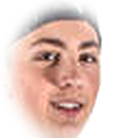
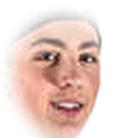
Giacca 3D per il completo, Leonardo Bulgari Jr come nella nuova foto
- Completo (Max Malpensa, Liam Rangoni): giacca vera sopra il corpo, con risvolti in raso nero,
  falde sui fianchi, pantaloni larghi e scarpe nere opache
- Leonardo Bulgari Jr: capelli castani corti, torso nudo, fisico asciutto, fascia nera sul braccio;
  dal volto della vecchia foto si sfuma il bordo del cappellino

Changed region(s): [[0.1562, 0.029, 0.8125, 0.3768]]

diff --git a/src/game/wrestlerModel.js b/src/game/wrestlerModel.js
@@ -249,7 +249,8 @@ const faceGLSL = (cond) => `
     }
   }`;
 
-function gearMaterial(src, models, look) {
+// shell: strato della giacca (completo), una copia del corpo un po' più larga che segue lo stesso scheletro
+function gearMaterial(src, models, look, shell = false) {
   const m = src.clone();
   if (look.lightSkin) m.map = models.lightSkin;
   m.color = new THREE.Color(look.skinTint ?? '#ffffff');
@@ -283,6 +284,8 @@ function gearMaterial(src, models, look) {
     // x: maschera, y: arbitro, z: nastro ai polsi, w: barba (lunghezza 0-1, 0 = niente)
     uFlags: { value: new THREE.Vector4(look.mask ? 1 : 0, look.isRef ? 1 : 0, look.tape ? 1 : 0, look.beard ? (look.beardLen ?? 0.5) + 0.01 : 0) },
     // x: tipo di maglia, y: calzamaglia, z: disegno della calzamaglia, w: lunghezza dei pantaloncini (0 slip, 1 lunghi)
+    uArmband: { value: col(look.armband) },
+    uArmbandOn: { value: look.armband ? 1 : 0 },
     uFlags2: { value: new THREE.Vector4(TOPS[top.kind] ?? 0, look.tights ? 1 : 0, PATTERNS[look.tightsPattern] ?? 0, look.trunksLen ?? 0) },
     uCapOn: { value: look.cap ? 1 : 0 },
     // x: occhiali, y: cravatta a righe
@@ -298,6 +301,7 @@ function gearMaterial(src, models, look) {
     uFace: { value: faceTex },
     uFaceOn: { value: faceTex ? 1 : 0 },
     uFaceScale: { value: face?.scale ?? 1 },
+    uShell: { value: shell ? 1 : 0 },
   };
   m.onBeforeCompile = (sh) => {
     Object.assign(sh.uniforms, u);
@@ -305,7 +309,7 @@ function gearMaterial(src, models, look) {
       .replace('#include <common>', `#include <common>
 varying vec3 vRest; varying vec3 vRestN;
 attribute float aArm;
-uniform mat3 uBasis; uniform vec4 uBuild; uniform vec4 uY; uniform vec4 uY2; uniform float uChest; uniform float uArmX; uniform vec3 uHand;`)
+uniform mat3 uBasis; uniform vec4 uBuild; uniform vec4 uY; uniform vec4 uY2; uniform float uChest; uniform float uArmX; uniform vec3 uHand; uniform float uShell;`)
       .replace('#include <begin_vertex>', `#include <begin_vertex>
 vRest = position;
 vRestN = uBasis * normal;
@@ -323,6 +327,15 @@ vRestN = uBasis * normal;
   float legs = (1.0 - smoothstep(uY2.x - 0.06, uY2.x + 0.04, q.y)) * smoothstep(uY.x + 0.02, uY.x + 0.1, q.y);
   float notArm = 1.0 - smoothstep(0.1, 0.6, aArm);
   transformed += objectNormal * (uBuild.x * body + (uBuild.y * belly + uBuild.z * torso) * notArm + uBuild.w * legs);
+  if (uShell > 0.5) {
+    // giacca: stoffa staccata dal corpo, spalle imbottite, falde che si allargano sui fianchi
+    float shoulder = exp(-pow((q.y - (uY.w - 0.07)) / 0.07, 2.0)) * smoothstep(uArmX * 0.45, uArmX * 0.9, abs(q.x));
+    float flare = (1.0 - smoothstep(uY2.x - 0.12, uY2.x + 0.12, q.y)) * notArm;
+    // pantaloni larghi e dritti: più staccati dalla gamba verso la caviglia
+    float trousers = (1.0 - smoothstep(uY2.x - 0.1, uY2.x - 0.02, q.y)) * (0.016 + 0.018 * (1.0 - smoothstep(uY.x + 0.06, uY.y + 0.1, q.y)));
+    trousers *= smoothstep(uY.x - 0.02, uY.x + 0.04, q.y);
+    transformed += objectNormal * ((0.02 + 0.008 * shoulder + 0.02 * flare) * smoothstep(uY2.x - 0.1, uY2.x - 0.06, q.y) + trousers);
+  }
 }`);
     sh.fragmentShader = sh.fragmentShader
       .replace('#include <common>', `#include <common>
@@ -331,7 +344,8 @@ uniform sampler2D uFace; uniform float uFaceOn; uniform float uFaceScale;
 uniform mat3 uBasis; uniform vec3 uTrunks; uniform vec3 uTrim; uniform vec3 uBoots; uniform vec3 uPads;
 uniform vec3 uTape; uniform vec3 uMask; uniform vec3 uMaskTrim; uniform vec3 uBeard; uniform vec3 uCap;
 uniform vec3 uTop; uniform vec3 uTop2; uniform vec3 uTop3; uniform vec4 uFlags; uniform vec4 uFlags2; uniform float uCapOn; uniform vec4 uExtra;
-uniform float uArmX; uniform float uHeadZ; uniform float uChest;
+uniform float uArmX; uniform float uHeadZ; uniform float uChest; uniform float uShell;
+uniform vec3 uArmband; uniform float uArmbandOn;
 uniform vec4 uY; uniform vec4 uY2; uniform vec3 uHand; uniform vec3 uArmDir;
 float cloth = 0.0;
 float shoe = 0.0;   // scarpe: nere e opache (sotto il faro il nero lucido sembrerebbe pelle)
@@ -393,8 +407,8 @@ vec3 rainbow(float t) {
     bool torso = ax < max(uArmX * 1.05, xThigh + 0.2) && p.y > hem && p.y < yNeck - 0.01 && (ax < uArmX * 1.05 || p.y < yPelvis);
     if (sleeve || torso) {
       col = uTop; cloth = 1.0;
-      float sy = uChest - 0.2;
-      float vee = 0.02 + (p.y - sy) * 0.55;                     // scollo della giacca, ampio
+      float sy = uChest - 0.17;
+      float vee = 0.02 + (p.y - sy) * 0.4;                     // scollo della giacca, ampio
       if (torso && p.z > 0.0 && p.y > sy && ax < vee) {
         col = uTop2;
         if (p.y > yNeck - 0.045 && ax > 0.03) col = mix(uTop2, vec3(0.6), 0.25);   // colletto della camicia
@@ -404,7 +418,7 @@ vec3 rainbow(float t) {
           if (uExtra.y > 0.5 && mod(floor((p.y - p.x) * 60.0), 2.0) < 1.0) col = mix(uTop3, vec3(0.9, 0.85, 0.75), 0.55);
         }
       } else if (torso && p.z > 0.0 && p.y > sy - 0.03 && ax < vee + 0.045) {
-        col = uTop * 0.55;                                       // risvolti più scuri, ben visibili
+        col = uTop * 0.55;                   // risvolti in raso nero, bordino chiaro più scuri, ben visibili
       }
       if (torso && p.z > 0.0 && p.y < sy && ax < 0.004) col = uTop * 0.4;   // chiusura della giacca
       // sotto l'ultimo bottone la giacca si apre: si vedono i pantaloni
@@ -434,6 +448,8 @@ vec3 rainbow(float t) {
       }
     }
   }
+  // fascia nera a metà del braccio sinistro
+  if (uArmbandOn > 0.5 && p.x > 0.0 && along < -(uExtra.z + 0.06) && along > -(uExtra.z + 0.11) && length(hp - uArmDir * along) < 0.09) { col = uArmband; cloth = 1.0; }
   // nastro ai polsi
   if (uFlags.z > 0.5 && along < -0.005 && along > -0.12 && length(hp - uArmDir * along) < 0.075) { col = uTape; cloth = 1.0; }
   // arbitro: camicia a righe verticali con maniche corte e colletto nero, cintura, pantaloni lunghi e scarpe nere
@@ -483,11 +499,36 @@ vec3 rainbow(float t) {
     if (uFaceOn < 0.5 && ax < 0.012 && p.y > eyeY + 0.03) col = uMaskTrim;
   }
   ${faceGLSL('uFlags.x > 0.5')}
+  if (uShell > 0.5) {
+    // strato della giacca: solo tronco e maniche (aperto davanti sulla camicia), sotto i pantaloni larghi
+    float hem = yPelvis - 0.06;
+    bool sleeve = ax > uArmX * 0.75 && along < -0.035 && p.y > yWaist;
+    bool torso = ax < uArmX * 1.05 && p.y > hem && p.y < yNeck - 0.01;
+    if (!(sleeve || torso)) {
+      if (!(leg && p.y > yFoot + 0.01)) discard;
+      col = uTrunks; cloth = 1.0;                                                  // pantaloni
+      if (p.z > 0.0 && abs(abs(p.x) - xThigh) < 0.003 && p.y < hem) col = uTrunks * 0.6;   // piega davanti
+      if (!gl_FrontFacing) col = uTrunks * 0.3;
+      diffuseColor.rgb = col;
+    } else {
+    float sy = uChest - 0.17;
+    float vee = 0.02 + (p.y - sy) * 0.4;
+    if (torso && p.z > 0.0 && p.y > sy && ax < vee) discard;
+    col = uTop; cloth = 1.0;
+    if (torso && p.z > 0.0 && p.y > sy - 0.035 && ax < vee + 0.045) col = p.y > sy + 0.01 && ax > vee + 0.038 ? vec3(0.35) : vec3(0.025);   // risvolti in raso nero, bordino chiaro
+    if (torso && p.z > 0.0 && p.y < sy && p.y > yPelvis && abs(ax - 0.012) < 0.008 && mod(p.y - sy, 0.08) < 0.016) col = vec3(0.03);   // bottoni
+    if (torso && p.z > 0.02 && abs(ax - 0.1) < 0.04 && abs(p.y - (yPelvis + 0.03)) < 0.006) col = uTop * 0.45;   // tasche
+    if (torso && p.x > 0.06 && p.x < 0.11 && p.z > 0.0 && p.y > uChest - 0.015 && p.y < uChest + 0.012) col = uTop2;   // fazzoletto
+    if (torso && p.y < hem + 0.01) col = uTop * 0.5;                                                          // orlo
+    if (!gl_FrontFacing) col = uTop * 0.3;                                                                    // fodera
+    }
+  }
   diffuseColor.rgb = col;
 }`)
       .replace('#include <roughnessmap_fragment>', '#include <roughnessmap_fragment>\nroughnessFactor = mix(mix(roughnessFactor, 0.45, cloth), 1.0, shoe);');
   };
-  m.customProgramCacheKey = () => 'bwt-gear';
+  if (shell) m.side = THREE.DoubleSide;
+  m.customProgramCacheKey = () => (shell ? 'bwt-gear-shell' : 'bwt-gear');
   return m;
 }
 
@@ -518,6 +559,17 @@ export class WrestlerRig {
         o.visible = false;   // occhi del modello: sotto la maschera si vede il disegno della foto
       }
     });
+
+    // completo: giacca vera sopra il corpo (stessa geometria e stesso scheletro, un po' più larga)
+    if (look.top?.kind === 'completo') {
+      let body = null;
+      inst.traverse((o) => { if (o.name === models.body.name) body = o; });
+      const jacket = new THREE.SkinnedMesh(body.geometry, gearMaterial(body.material, models, look, true));
+      jacket.bind(body.skeleton, body.bindMatrix);
+      jacket.castShadow = true;
+      jacket.frustumCulled = false;
+      body.parent.add(jacket);
+    }
 
     this.bulk = look.slim || look.lean ? SLIM_BONES : BULK_BONES;
     this.bones = {};

diff --git a/src/data/roster.js b/src/data/roster.js
@@ -8,7 +8,7 @@
 //   top           { kind: 'canotta' | 'body' | 'completo', color, trim, color3, tieStripes }
 //   boots, pads, tape (nastro/polsini, null = niente), beard + beardLen, cap, glasses, mask
 //   hairStyle     'corti' | 'medi' | 'lunghi' | null (calvo); headband: fascia sulla fronte (colore)
-//   hat           cappello da cowboy (colore)
+//   hat           cappello da cowboy (colore); armband: fascia sul braccio sinistro (colore)
 //   mask          maschera (colore): con face il disegno della maschera viene dalla foto; antennae: antenne (colore)
 //   lean          fisico asciutto e poco muscoloso (altrimenti la corporatura viene dal peso)
 //   face          volto dalla foto in public/foto/ (vedi tools/build-faces.py)
@@ -54,10 +54,9 @@ export const ROSTER = [
     trunks: '#6a1fb0', trim: '#111111', boots: '#111111', pads: '#111111', tape: '#111111',
   },
   {
-    name: 'LEONARDO BULGARI JR', face: 'lello', nickname: 'The coolest kid in town', from: 'Bologna', height: 1.83, kg: 73,
+    name: 'LEONARDO BULGARI JR', face: 'lello', nickname: 'The coolest kid in town', from: 'Bologna', height: 1.83, kg: 73, lean: true,
     lightSkin: true, skinTint: '#ffffff',
-    hairStyle: null, hair: '#2a1a10', cap: '#151515',
-    top: { kind: 'canotta', color: '#f2f2f2', trim: '#3a3a3a' },
+    hairStyle: 'corti', hair: '#3b2416', armband: '#111111',
     tights: true, trunks: '#1f5fd0', trim: '#1f5fd0', boots: '#f2f2f2', pads: '#1f5fd0', tape: null,
   },
   {

diff --git a/tools/build-faces.py b/tools/build-faces.py
@@ -8,7 +8,7 @@ Uso: python3 tools/build-faces.py
 """
 import json
 from pathlib import Path
-from PIL import Image, ImageDraw, ImageFilter
+from PIL import Image, ImageChops, ImageDraw, ImageFilter
 
 ROOT = Path(__file__).resolve().parent.parent
 SRC = ROOT / 'public' / 'foto'
@@ -24,6 +24,8 @@ EYES = {
 }
 # volti coperti da una maschera: la tinta della pelle si prende da questo riquadro (petto) invece che da fronte e guance
 SKIN_BOX = {'mosquito': (95, 440, 185, 500)}
+# foto con cappellino: la parte alta del ritaglio (fronte) si sfuma, sopra ci sono i capelli del modello (0..1 = quanta altezza)
+TOP_FADE = {'lello': 0.42}
 # volto ingrandito sul modello (il disegno della maschera copre tutta la testa)
 FACE_SCALE = {'mosquito': 1.4}
 # sopracciglia folte o espressione accigliata: sul modello diventano strisce scure, si schiariscono verso la pelle (0..1)
@@ -102,7 +104,11 @@ def main():
                         px[x, y] = (12, 12, 14)
         if name in SOFT_BROWS:
             soften_brows(face, skin, SOFT_BROWS[name])
-        face.putalpha(mask)
+        alpha = mask
+        if name in TOP_FADE:
+            fade = Image.linear_gradient('L').resize((W, H)).point(lambda v, t=TOP_FADE[name]: min(255, round(v / (255 * t) * 255)) if t else 255)
+            alpha = ImageChops.multiply(mask, fade)
+        face.putalpha(alpha)
         face.save(OUT / f'{name}.png')
         # la tinta moltiplica la texture della pelle del modello: si normalizza sul canale più chiaro
         tint = [skin[i] / tex_mean[i] for i in range(3)]

diff --git a/README.md b/README.md
@@ -81,6 +81,8 @@ staff: Liam Rangoni (presentatore, annuncia il match sul ring e poi resta a bord
 - `lean: true` nel roster: fisico asciutto e poco muscoloso indipendentemente dal peso (Zodiac).
 - Liam Rangoni porta sempre il cappello da cowboy (`hat` nel roster).
 - Arbitro e staff hanno un fisico normale (`slim`): arbitro con camicia a righe, colletto e pantaloni lunghi; staff in giacca e cravatta.
+  Il completo ha una giacca 3D vera (secondo strato del corpo, più largo, sullo stesso scheletro) con risvolti in raso, pantaloni larghi e scarpe.
+- Leonardo Bulgari Jr: fascia nera sul braccio (`armband`); dalla vecchia foto col cappellino la fronte è sfumata (`TOP_FADE` nello script dei volti).
 - Abbigliamento disponibile: slip o pantaloncini, calzamaglia (con arcobaleno o fiamme), canotta, body da lotta, completo con cravatta,
   stivali, ginocchiere, polsini, barba, cappellino, occhiali, maschera. Gli accappatoi e le giacche d'ingresso (Dozer, Zodiac, Nico) non ci sono ancora.
 
